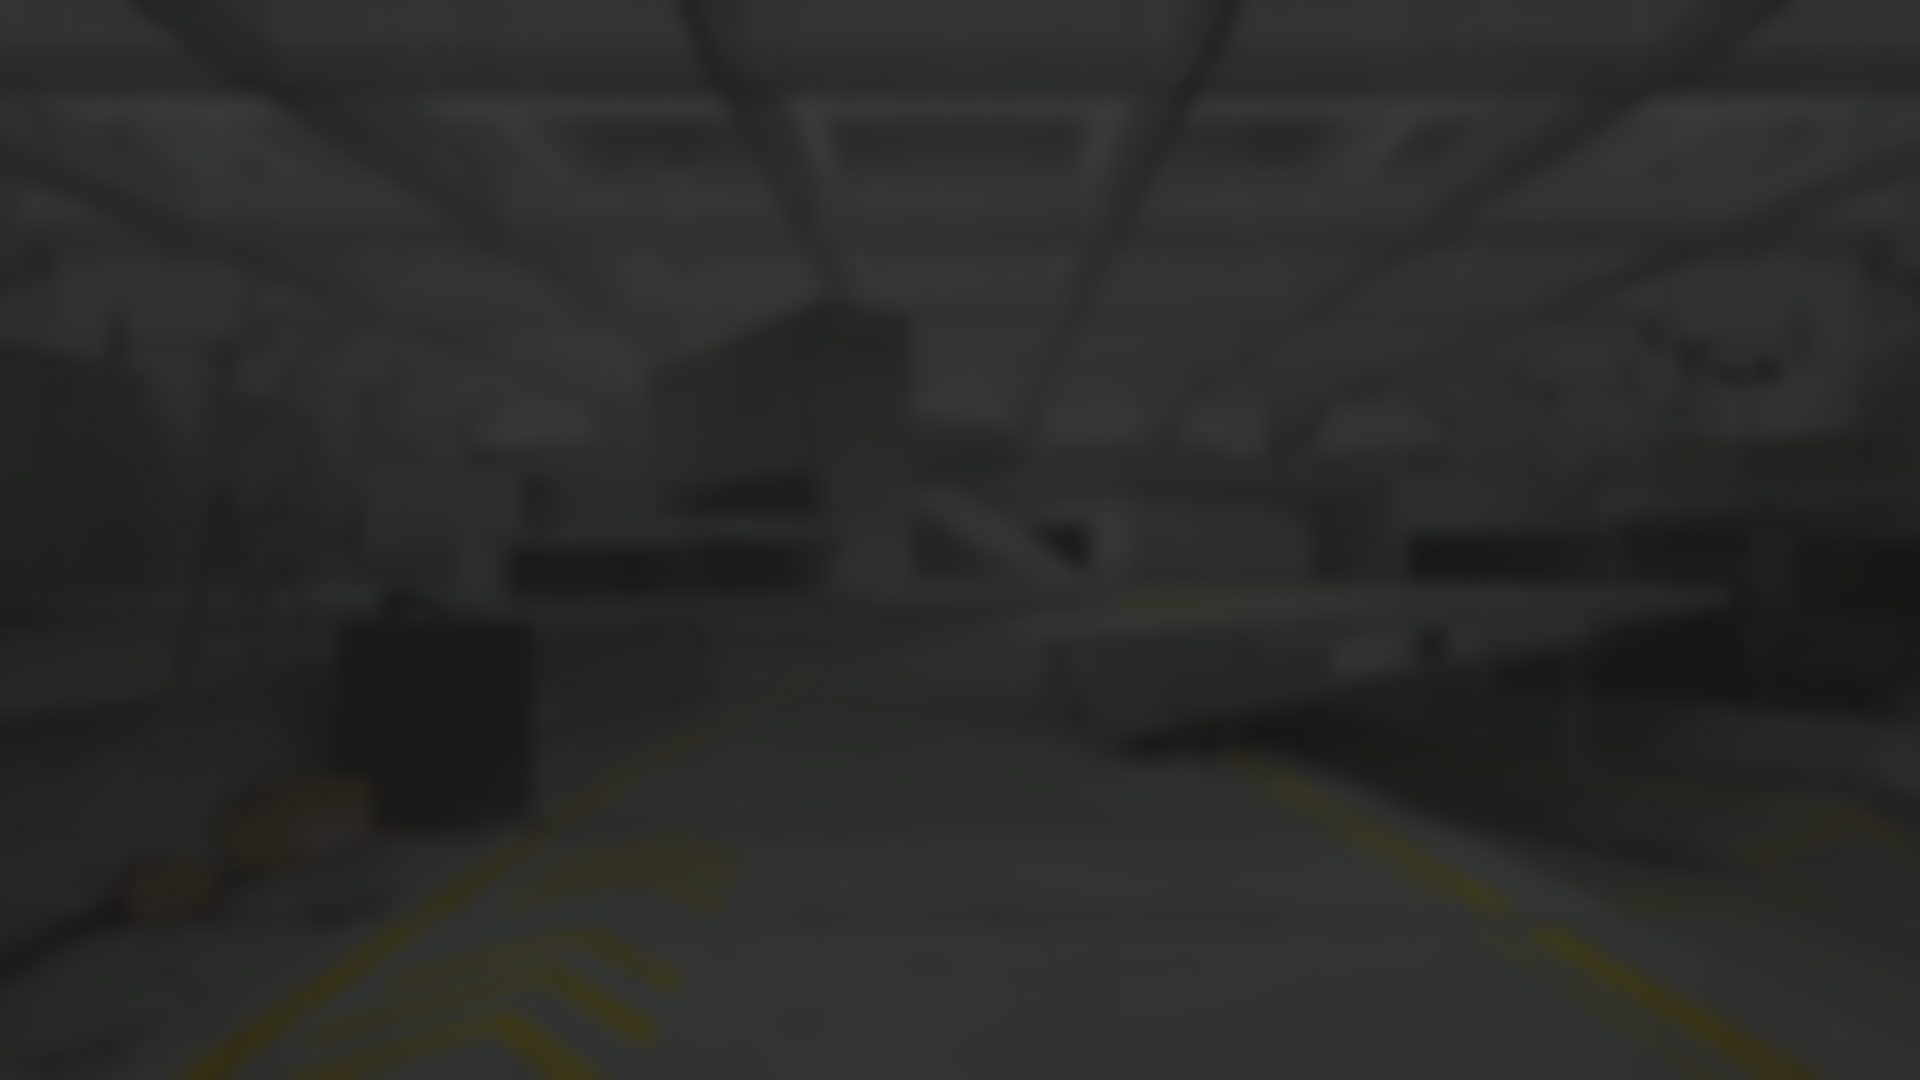
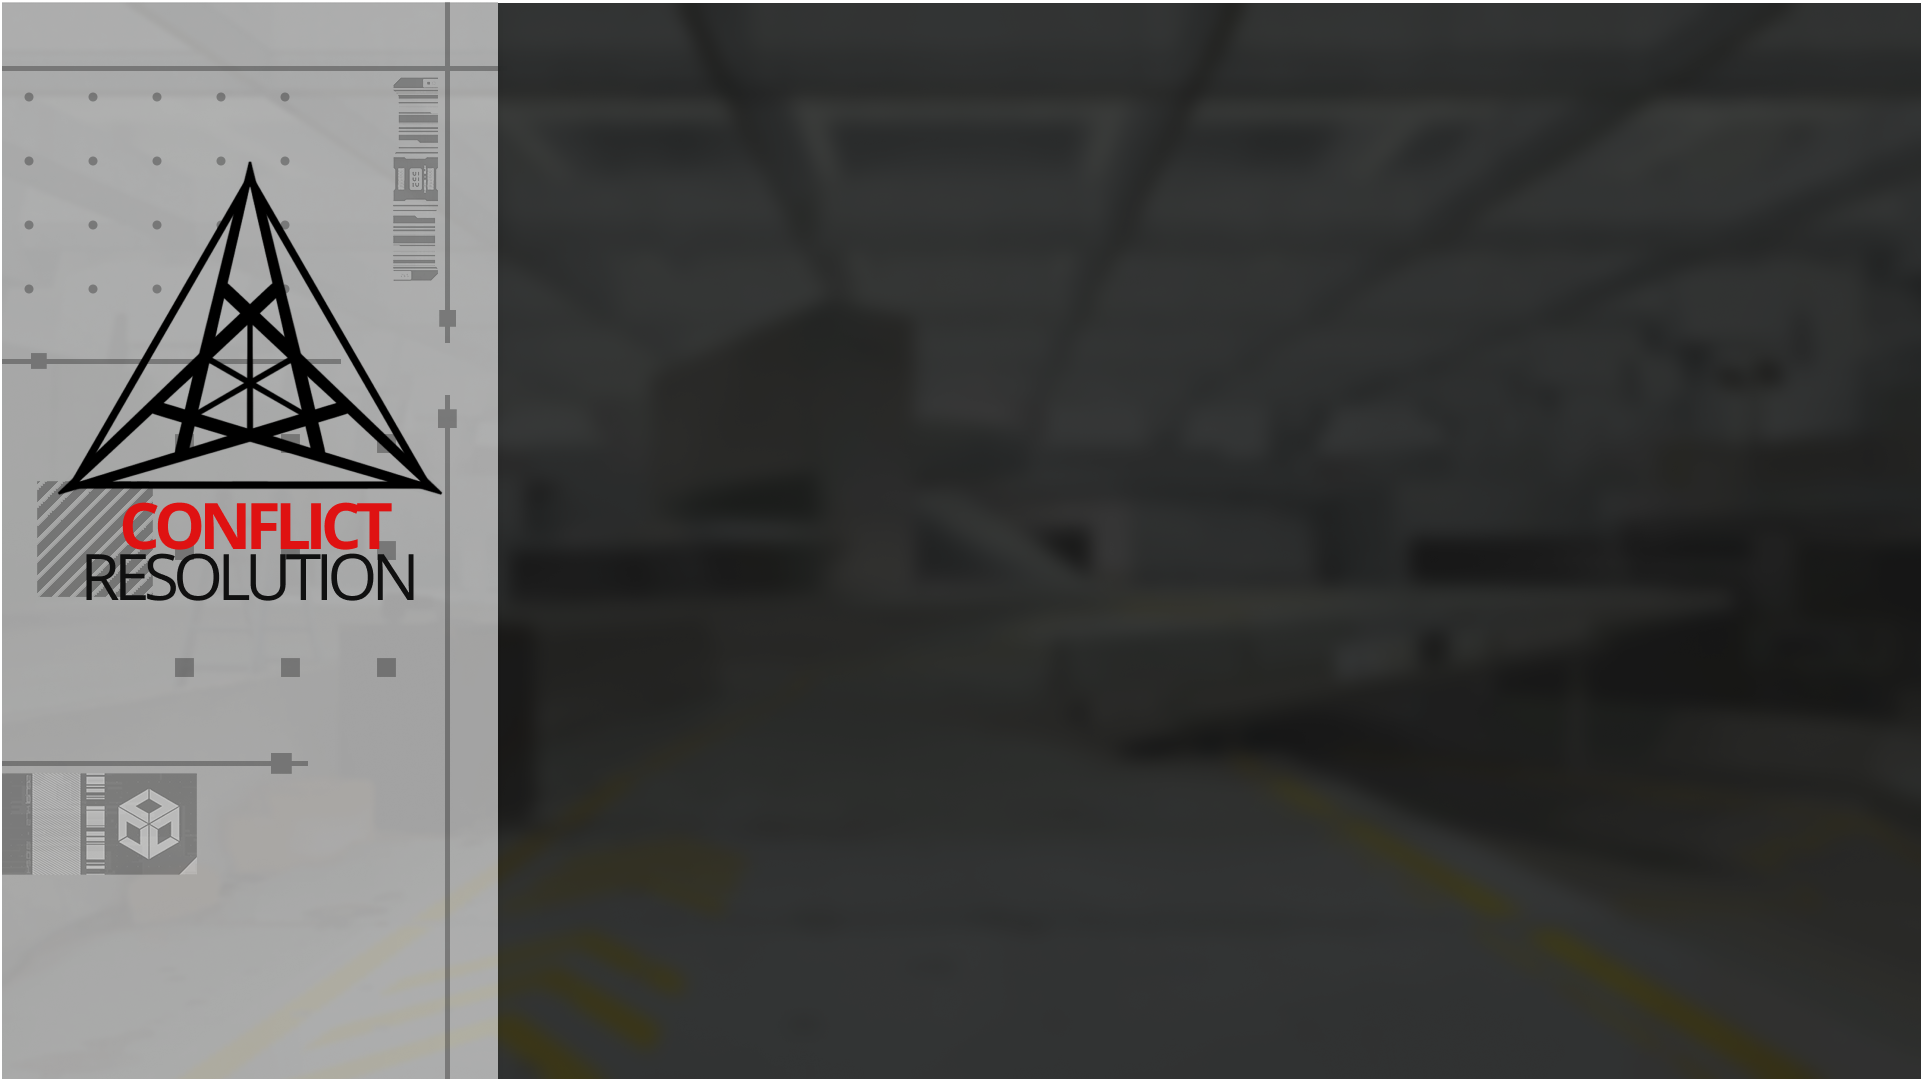
Conflict Res page

Changed region(s): [[0.0, 0.0, 0.2812, 1.0]]

diff --git a/Editor/src/Window/Overlay/ConflictResOverlay.cpp b/Editor/src/Window/Overlay/ConflictResOverlay.cpp
@@ -18,7 +18,6 @@ namespace Tempest
 	void ConflictResOverlay::open_popup(const Event&)
 	{
 		OverlayOpen = true;
-		LeftBg = tex_map["Assets/ConflictBG_Left.png"];
 		ConflictBg = tex_map["Assets/ConflictBG.png"];
 	}
 	void ConflictResOverlay::show([[maybe_unused]]Instance& instance)
@@ -37,23 +36,40 @@ namespace Tempest
 			{
 				auto drawlist = ImGui::GetWindowDrawList();
 				auto pos = ImGui::GetCursorPos();
-				ImVec2 leftBgMax = { pos.x + LeftBg->GetWidth(), pos.y + LeftBg->GetHeight() };
-				ImVec2 bgMax = { pos.x + ConflictBg->GetWidth(), pos.y + ConflictBg->GetHeight() };
-				drawlist->AddImage((void*)static_cast<size_t>(ConflictBg->GetID()), pos, bgMax);
-				drawlist->AddImage((void*)static_cast<size_t>(LeftBg->GetID()), pos, leftBgMax);
+				ImVec2 max = { pos.x + viewport->Size.x,pos.y + viewport->Size.y };
+				
+				drawlist->AddImage((void*)static_cast<size_t>(ConflictBg->GetID()), pos, max);
+				auto scale = viewport->Size / initViewPortSize ;
+				auto scale2 = initViewPortSize / viewport->Size ;
+				auto scale3 = scale * scale2 ;
 
-				static float x = 10.f;
-				static float y = 10.f;
-				ImGui::DragFloat("##12", &x);
-				ImGui::DragFloat("##132", &y);
-				ImGui::SetCursorPos({ pos.x + x,pos.y + y });
-				UI::UIConflictSelectable("CONFLICT RES", false, 1);
-				UI::UIConflictSelectable("CONFLICT RES", false, 0);
-
-				if (ImGui::Button("Close"))
+				ImGui::Dummy({ 0, 70.f });
+				UI::SubHeader("Conflict Resolution");
+				ImGui::SetCursorPos({0.f, pos.y + viewport->Size.y * 0.2f});
+				auto curPos = ImGui::GetCursorPos();
+				for (int i = 0; i < 3; i++)
+				{
+					ImGui::SetCursorPos(curPos);
+					ImGui::Dummy({ pos.x + viewport->Size.x * 0.3f, 0.f });
+					ImGui::SameLine();
+					string str = "CONFLICT RES##" + std::to_string(i);
+					UI::UIConflictSelectable(str.c_str(), false, 1);
+					//ImGui::Dummy({ 0.f, 60.f });
+					ImGui::Dummy({ 0.f, viewport->Size.y * 0.07f });
+					curPos = ImGui::GetCursorPos();
+					
+				}
+				
+				auto tex = tex_map["Assets/BackMenuBtn.png"];
+				ImGui::SetCursorPos(ImVec2{ viewport->Size.x * 0.02f,viewport->Size.y * 0.03f });
+				ImGui::PushStyleColor(ImGuiCol_Button, ImVec4{ 0,0,0,0 });
+				ImGui::PushStyleColor(ImGuiCol_ButtonActive, ImVec4{ 0,0,0,0 });
+				ImGui::PushStyleColor(ImGuiCol_ButtonHovered, ImVec4{ 0,0,0,0 });
+				if (ImGui::ImageButton((void*)static_cast<size_t>(tex->GetID()), ImVec2{ tex->GetWidth() * 0.7f, tex->GetHeight() * 0.7f }))
 				{
 					OverlayOpen = false;
 				}
+				ImGui::PopStyleColor(3);
 			}
 			ImGui::PopStyleVar();
 			ImGui::End();

diff --git a/Editor/src/Window/Popup/DefineStatsPopup.h b/Editor/src/Window/Popup/DefineStatsPopup.h
@@ -89,7 +89,7 @@ namespace Tempest
                     ImGui::Text(str.c_str(), wrap_width);
                     ImGui::PopTextWrapPos();
                     ImGui::PopFont();
-                   ImU32 lineCol = ImGui::GetColorU32({ 0.48f, 0.48f, 0.48f, 0.5f });
+                    ImU32 lineCol = ImGui::GetColorU32({ 0.48f, 0.48f, 0.48f, 0.5f });
                     ImVec2 lineMin{ ImGui::GetCursorScreenPos().x + ImGui::GetContentRegionAvailWidth() * 0.1f, ImGui::GetCursorScreenPos().y };
                     ImVec2 lineMax{ ImGui::GetCursorScreenPos().x + ImGui::GetContentRegionAvailWidth() * 0.9f, ImGui::GetCursorScreenPos().y };
 

diff --git a/Editor/src/Window/Overlay/ConflictResOverlay.h b/Editor/src/Window/Overlay/ConflictResOverlay.h
@@ -38,7 +38,7 @@ namespace Tempest
         const unsigned numOfButtons = 10;
         const float padding = 50.0f;
         const float halfPadding = padding * 0.5f;
-        tsptr<Texture> LeftBg;
+        ImVec2 initViewPortSize = ImGui::GetMainViewport()->Size;
         tsptr<Texture> ConflictBg;
 
     };
